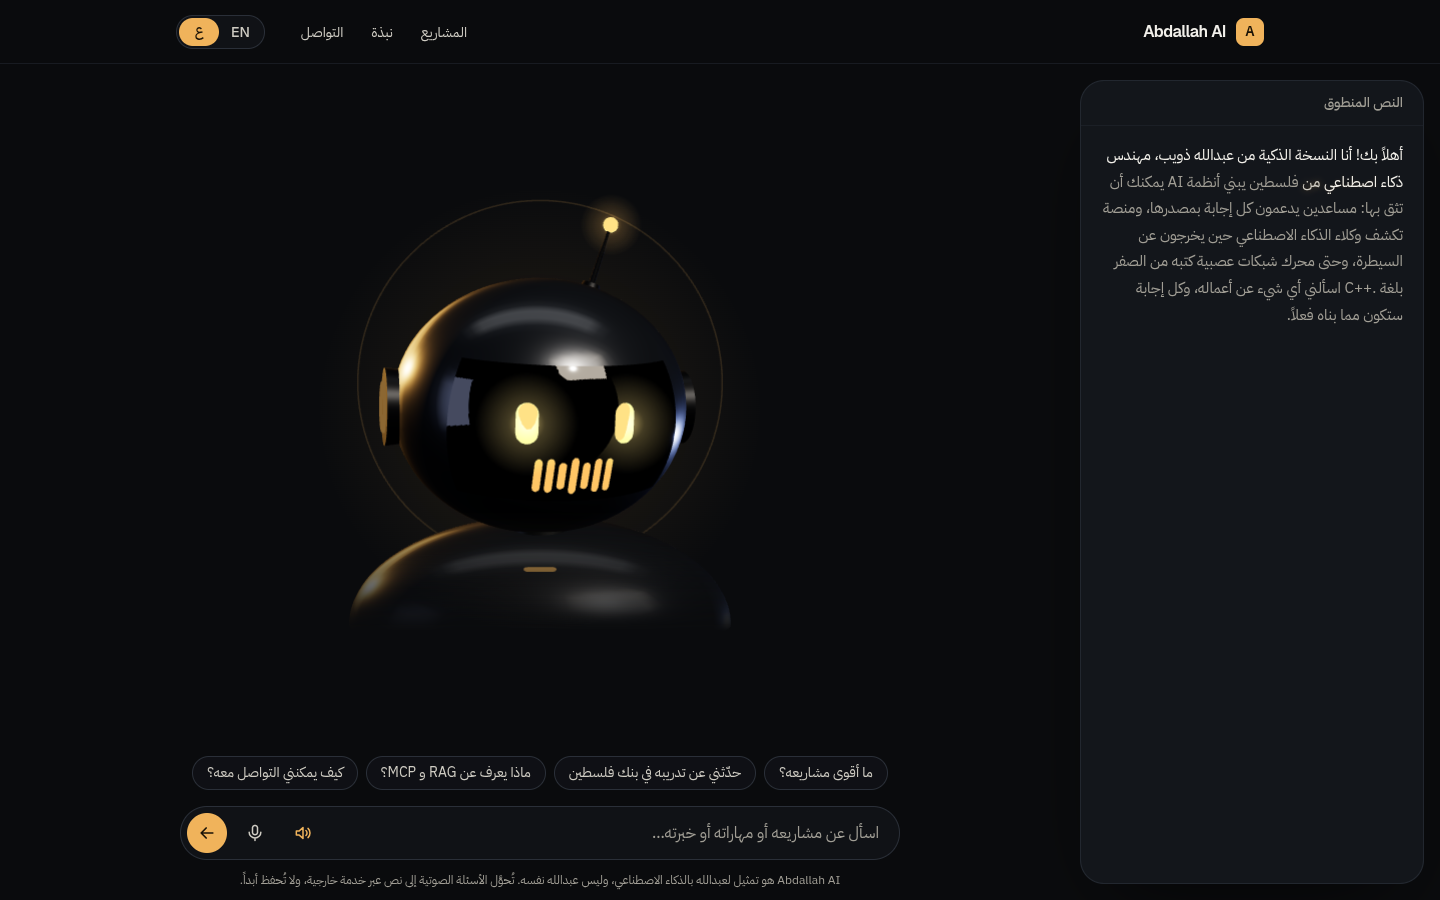
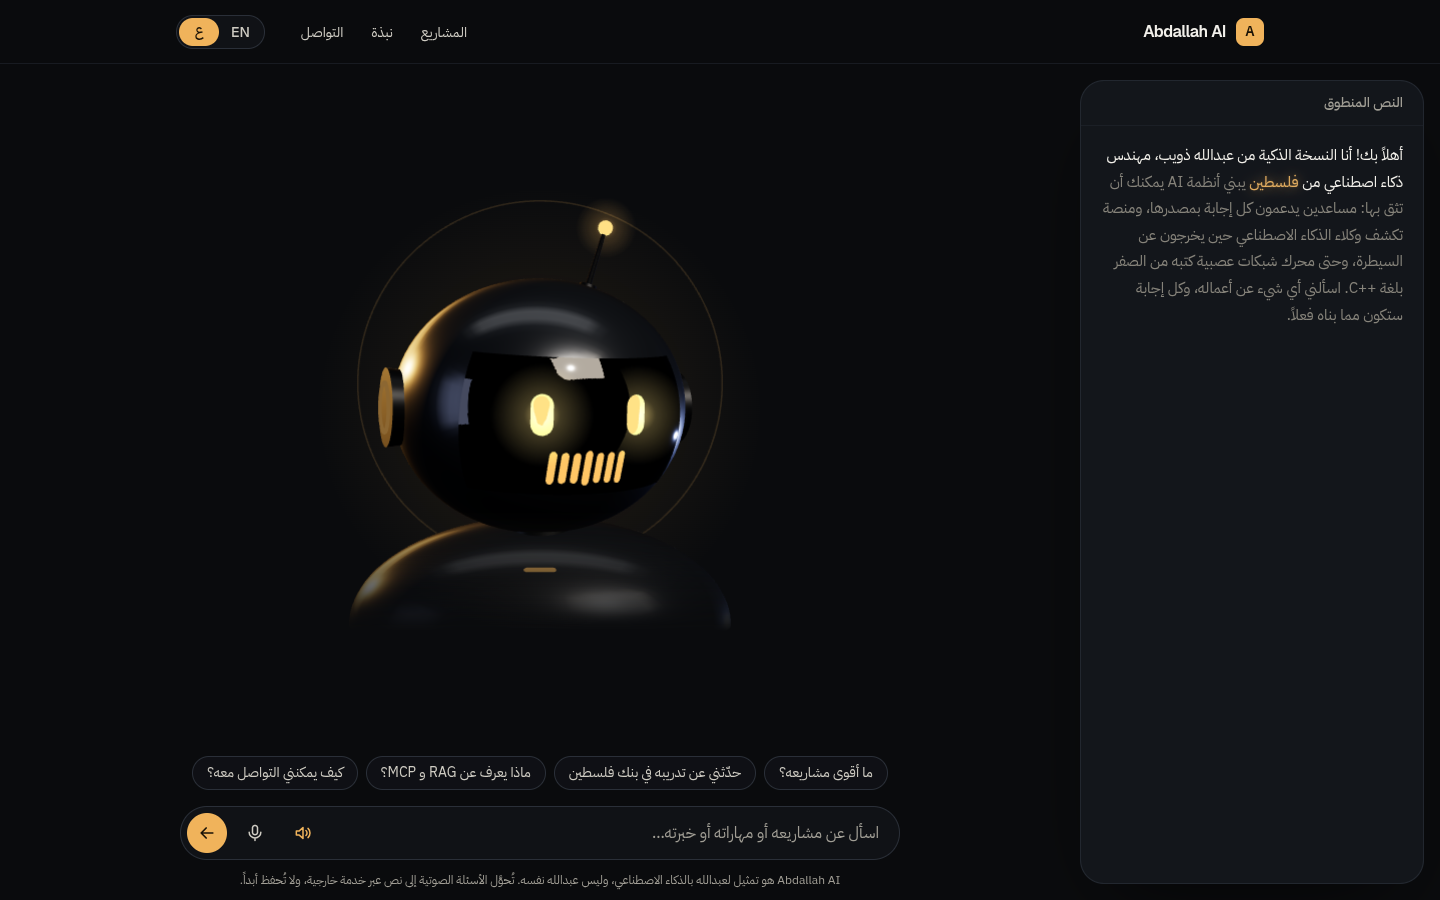
feat(web): stronger spoken-word highlight
Dimmed words are now #86837a (4.8:1 on the panel, was 6.8:1) so spoken words stand
3.3:1 above them (was 2.4:1); the word being spoken is amber with its glow, amber
alone under reduced motion. A test reads the colours from the stylesheet and checks
the ratios. Transcript screenshots updated.

diff --git a/frontend/tests/word-contrast.test.ts b/frontend/tests/word-contrast.test.ts
@@ -1,0 +1,60 @@
+import assert from "node:assert/strict";
+import { readFileSync } from "node:fs";
+import { describe, it } from "node:test";
+
+// The transcript's word states, read from the stylesheet itself so the numbers cannot drift.
+const css = readFileSync(new URL("../app/globals.css", import.meta.url), "utf8");
+
+function token(name: string): string {
+  const match = css.match(new RegExp(`--color-${name}:\\s*(#[0-9a-f]{6})`, "i"));
+  assert.ok(match, `--color-${name} is defined`);
+  return match[1];
+}
+
+function rule(selector: string, from = 0): string {
+  const start = css.indexOf(`${selector} {`, from);
+  assert.ok(start >= 0, `rule ${selector}`);
+  return css.slice(start, css.indexOf("}", start));
+}
+
+const rgb = (hex: string) => [1, 3, 5].map((i) => parseInt(hex.slice(i, i + 2), 16));
+const channel = (c: number) => ((c /= 255) <= 0.04045 ? c / 12.92 : ((c + 0.055) / 1.055) ** 2.4);
+const luminance = ([r, g, b]: number[]) => 0.2126 * channel(r) + 0.7152 * channel(g) + 0.0722 * channel(b);
+function contrast(a: number[], b: number[]): number {
+  const [hi, lo] = [luminance(a), luminance(b)].sort((x, y) => y - x);
+  return (hi + 0.05) / (lo + 0.05);
+}
+/** The panel: 92 % ink-850 over the page (ink-950). */
+const panel = rgb(token("ink-850")).map((c, i) => c * 0.92 + rgb(token("ink-950"))[i] * 0.08);
+
+describe("transcript word colours", () => {
+  const dim = rule(".transcript-text .tw");
+  const current = rule('.transcript-text .tw[data-state="current"]');
+
+  it("dimmed words stay readable on the panel (WCAG AA, ≥ 4.5:1)", () => {
+    assert.match(dim, /color: var\(--color-mist-500\)/);
+    assert.equal(token("mist-500").toLowerCase(), "#86837a");
+    assert.ok(contrast(rgb(token("mist-500")), panel) >= 4.5, `${contrast(rgb(token("mist-500")), panel).toFixed(2)}:1`);
+  });
+
+  it("spoken words stand clearly apart from dimmed ones (≥ 3:1)", () => {
+    assert.match(css, /\.transcript-text \.tw\[data-state="spoken"\],[^{]*\{\s*color: var\(--color-mist-50\)/);
+    assert.ok(contrast(rgb(token("mist-50")), rgb(token("mist-500"))) >= 3);
+  });
+
+  it("the word being spoken is amber with a glow, readable on the panel", () => {
+    assert.match(current, /color: var\(--color-accent\)/);
+    assert.match(current, /text-shadow:/);
+    assert.equal(token("accent").toLowerCase(), "#f0b35b");
+    assert.ok(contrast(rgb(token("accent")), panel) >= 4.5);
+  });
+
+  it("reduced motion keeps the amber but drops the glow and the fade", () => {
+    const reduce = css.indexOf("@media (prefers-reduced-motion: reduce) {\n  .transcript-text");
+    assert.ok(reduce >= 0);
+    assert.match(rule('.transcript-text .tw[data-state="current"]', reduce), /text-shadow: none/);
+    const motion = css.indexOf("@media (prefers-reduced-motion: no-preference) {\n  .transcript-text");
+    assert.ok(motion >= 0, "the transition only exists for no-preference");
+    assert.equal(css.slice(0, motion).match(/\.transcript-text \.tw \{[^}]*transition/), null);
+  });
+});

diff --git a/frontend/app/globals.css b/frontend/app/globals.css
@@ -11,6 +11,7 @@
   --color-mist-50: #f2f0ea;
   --color-mist-200: #cfccc3;
   --color-mist-400: #a19e95;
+  --color-mist-500: #86837a;
   --color-accent: #f0b35b;
   --color-accent-strong: #ffc977;
   --color-accent-ink: #1a1206;
@@ -356,10 +357,11 @@ body {
 
 /* ---------------------------------------------------------------- spoken transcript */
 
-/* Words of an entry: dimmed until spoken (mist-400 on ink-850 ≈ 6.7:1, still readable), bright
-   once spoken, the word being spoken glows amber. `data-mode="bright"`: not voiced, all bright. */
+/* Words of an entry: dimmed until spoken (mist-500 on the panel ≈ 4.8:1, still readable; spoken
+   words are ≈ 3.3:1 brighter than dimmed ones), bright once spoken, and the word being spoken is
+   amber with a soft glow. `data-mode="bright"`: not voiced, all bright. Ratios: word-contrast test. */
 .transcript-text .tw {
-  color: var(--color-mist-400);
+  color: var(--color-mist-500);
 }
 .transcript-text .tw[data-state="spoken"],
 .transcript-text[data-mode="bright"] .tw {
@@ -369,7 +371,7 @@ body {
   text-shadow: none;
 }
 .transcript-text .tw[data-state="current"] {
-  color: var(--color-mist-50);
+  color: var(--color-accent);
   text-shadow:
     0 0 14px color-mix(in oklab, var(--color-accent) 70%, transparent),
     0 0 2px color-mix(in oklab, var(--color-accent) 45%, transparent);
@@ -381,6 +383,7 @@ body {
       text-shadow 260ms ease-out;
   }
 }
+/* Reduced motion: the amber colour alone, no glow and no fade. */
 @media (prefers-reduced-motion: reduce) {
   .transcript-text .tw[data-state="current"] {
     text-shadow: none;
